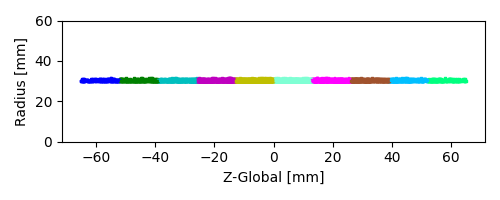
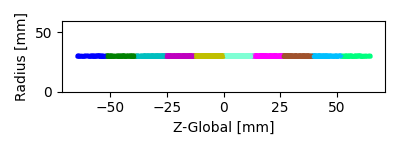
Made Module layout plots bigger text

Changed region(s): [[0.03, 0.08, 0.99, 0.9333]]

diff --git a/paperPlots/moduleLayoutPlot.py b/paperPlots/moduleLayoutPlot.py
@@ -11,11 +11,14 @@ import sys
 sys.path.append("../MuC_Smartpix_Data_Production/Tracklist_Production")
 sys.path.append("../daniel/validationPlots")
 
+
+plt.style.use('seaborn-v0_8-colorblind')
+
 # from coordinateValidation_Utils import * #instead of importing, copied function over
 # def plotHits(sig,uniqueGammas,pltStandalone=True,pltShow=True,alpha = 1):
-def plotHitsXY(sig,pltStandalone=True,pltShow=True,alpha = 1):
+def plotHitsXY(sig,pltStandalone=True,pltShow=True,alpha = 1,figsize=(4,3.8)):
     if pltStandalone:
-        fig,ax=plt.subplots(figsize=(5,4.8))
+        fig,ax=plt.subplots(figsize=figsize)
     else:
         ax = plt.gca()
     colorsList = ["r","b","g","c","m","y","aquamarine","fuchsia",
@@ -39,10 +42,10 @@ def plotHitsXY(sig,pltStandalone=True,pltShow=True,alpha = 1):
     if pltShow:
         plt.show()
 
-def plotRZPlane(sig):
+def plotRZPlane(sig,figsize=(4,1.5)):
     print(sig)
     print(sig.keys())
-    plt.figure(figsize=(5,2))
+    plt.figure(figsize=figsize)
 
     colorsList = ["r","b","g","c","m","y","aquamarine","fuchsia",
                 "sienna","deepskyblue","springgreen","royalblue",
